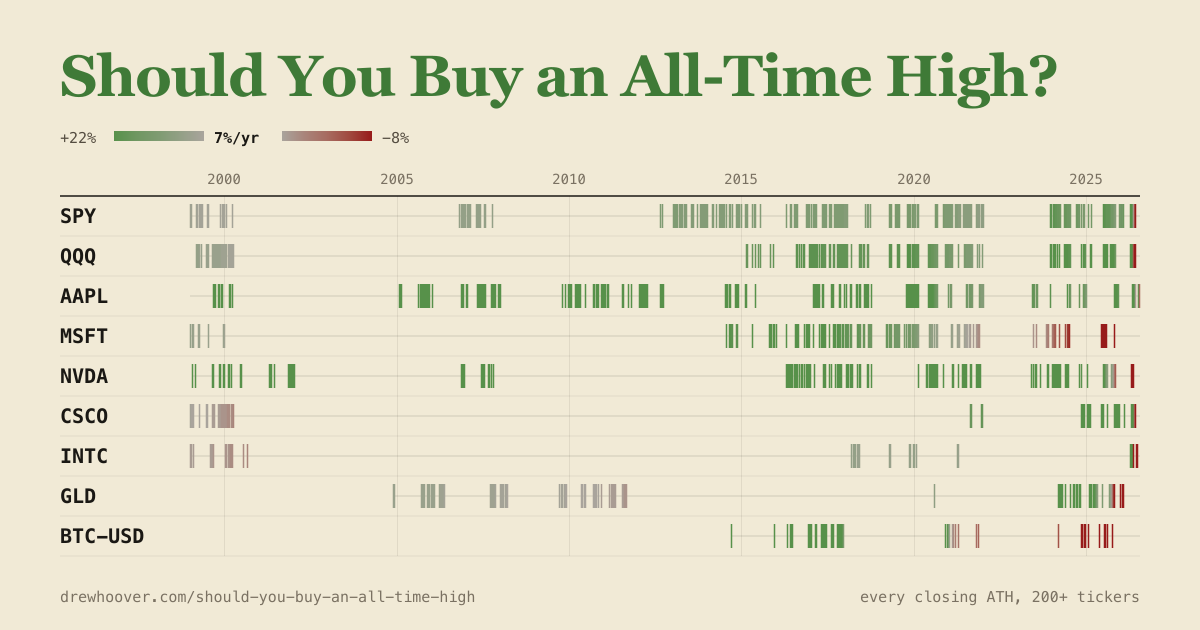
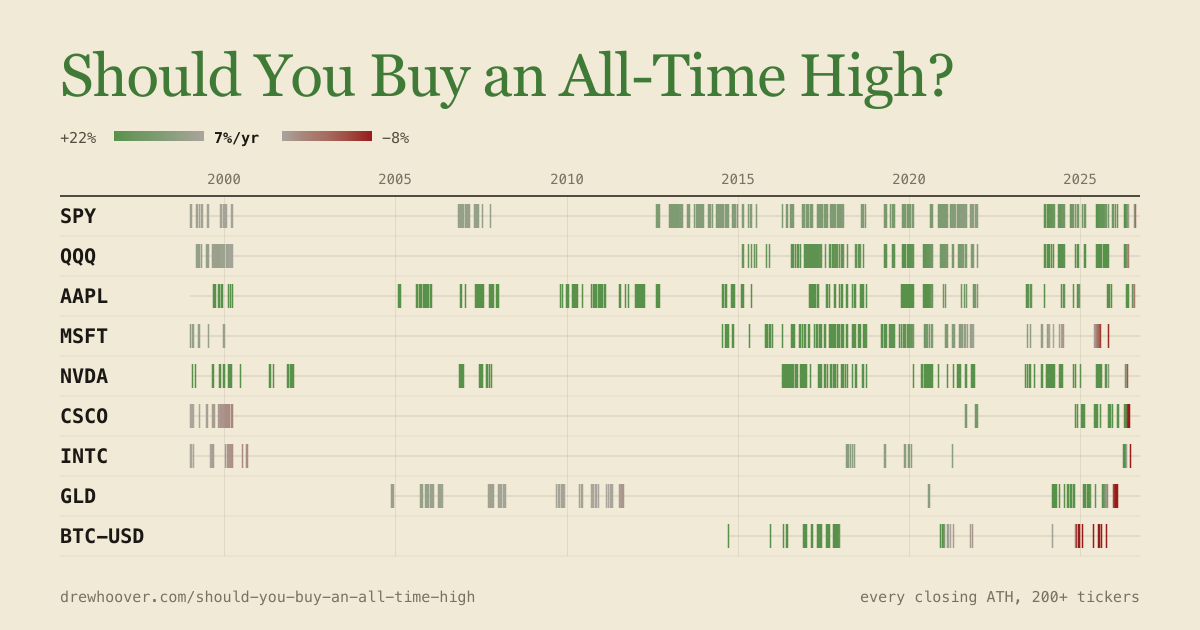
Add a self-contained index card and fix the image title font
scripts/gen-cover.mjs draws the 1200x750 card for the drewhoover.com
project list: the title, what the board is, SPY's real row since 1995
with the dot-com peak marked, a color key, and the finding that buying
that peak has still paid 8% a year. The ticker count and the return come
from the data.

Both image scripts asked librsvg for a bold Caslon, and Big Caslon only
has a medium weight, so the titles fell back to Georgia Bold. They now
ask for medium.

diff --git a/README.md b/README.md
@@ -62,6 +62,7 @@ fetch, build, and deploy.
 ```bash
 npm run gen:favicon    # writes public/favicon.* and apple-touch-icon
 npm run gen:og         # writes public/og.png (1200x630)
+npm run gen:cover      # writes public/card.png (1200x750), the index-site card
 ```
 
 Both are committed; CI does not regenerate them. Rerun by hand if you
